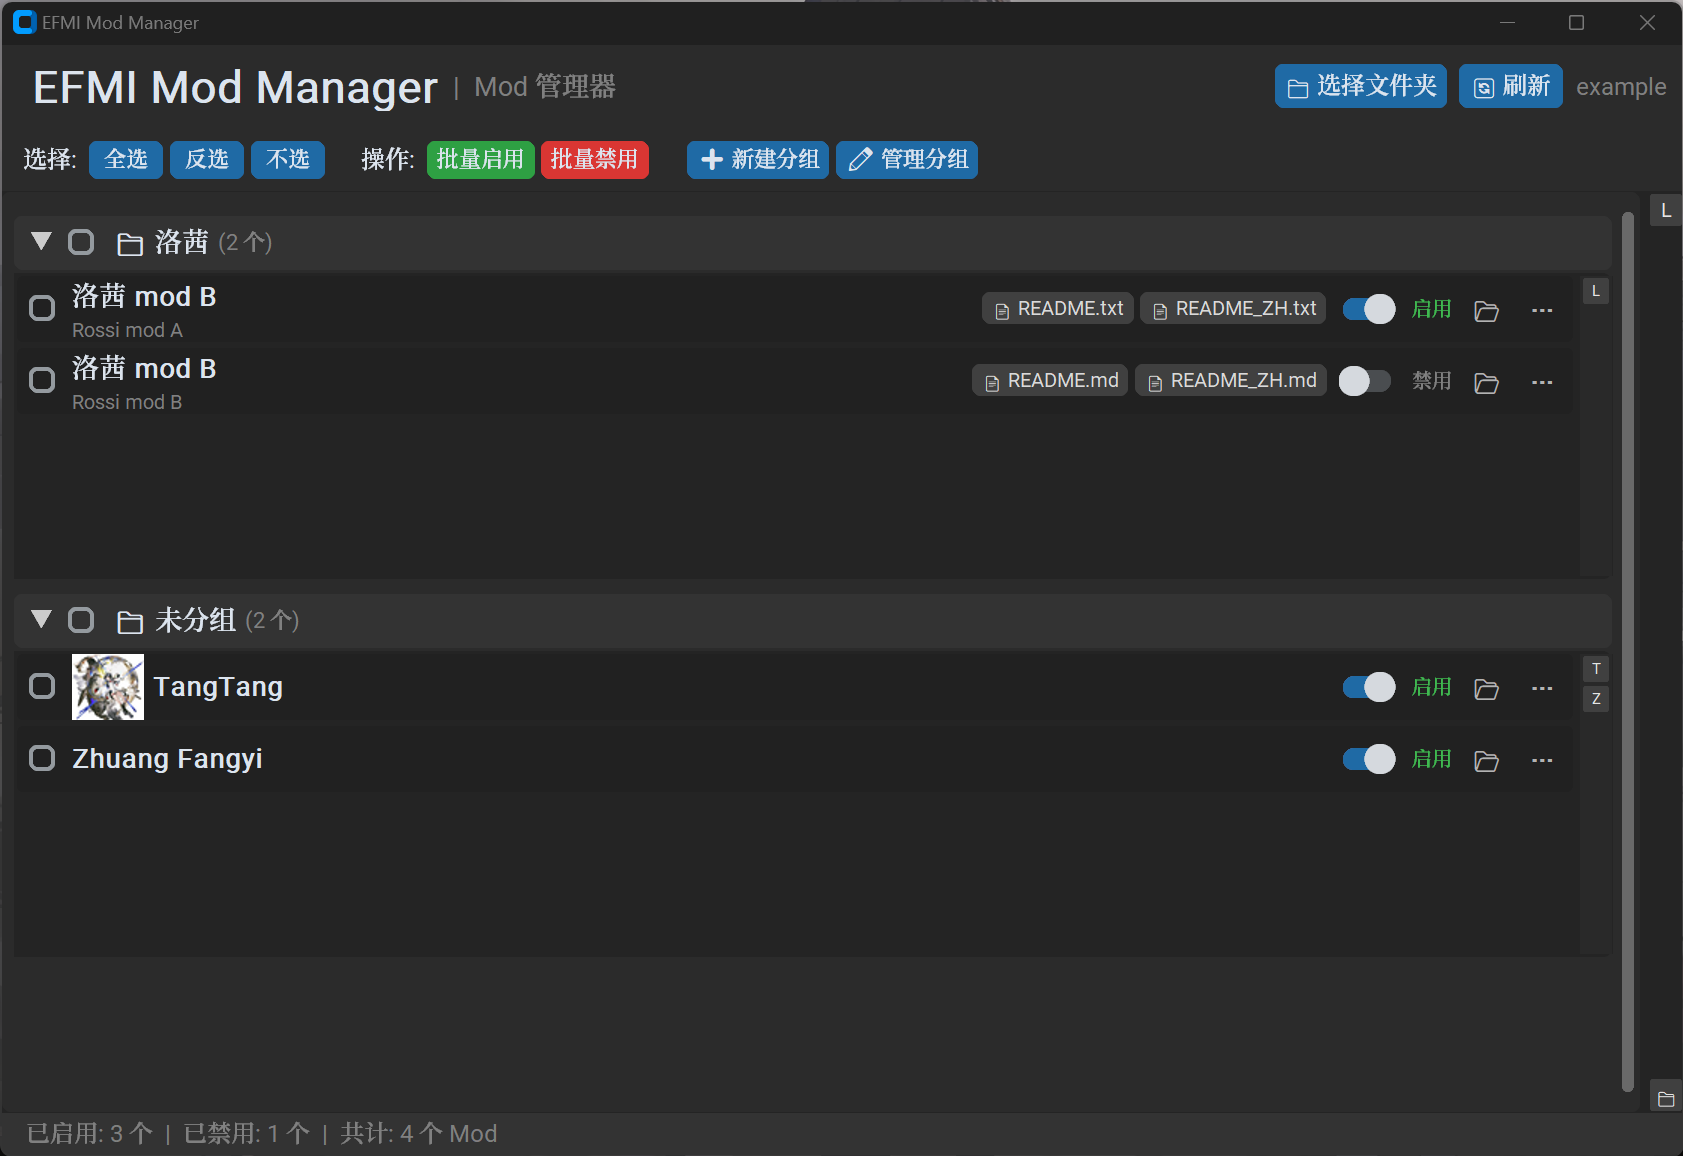
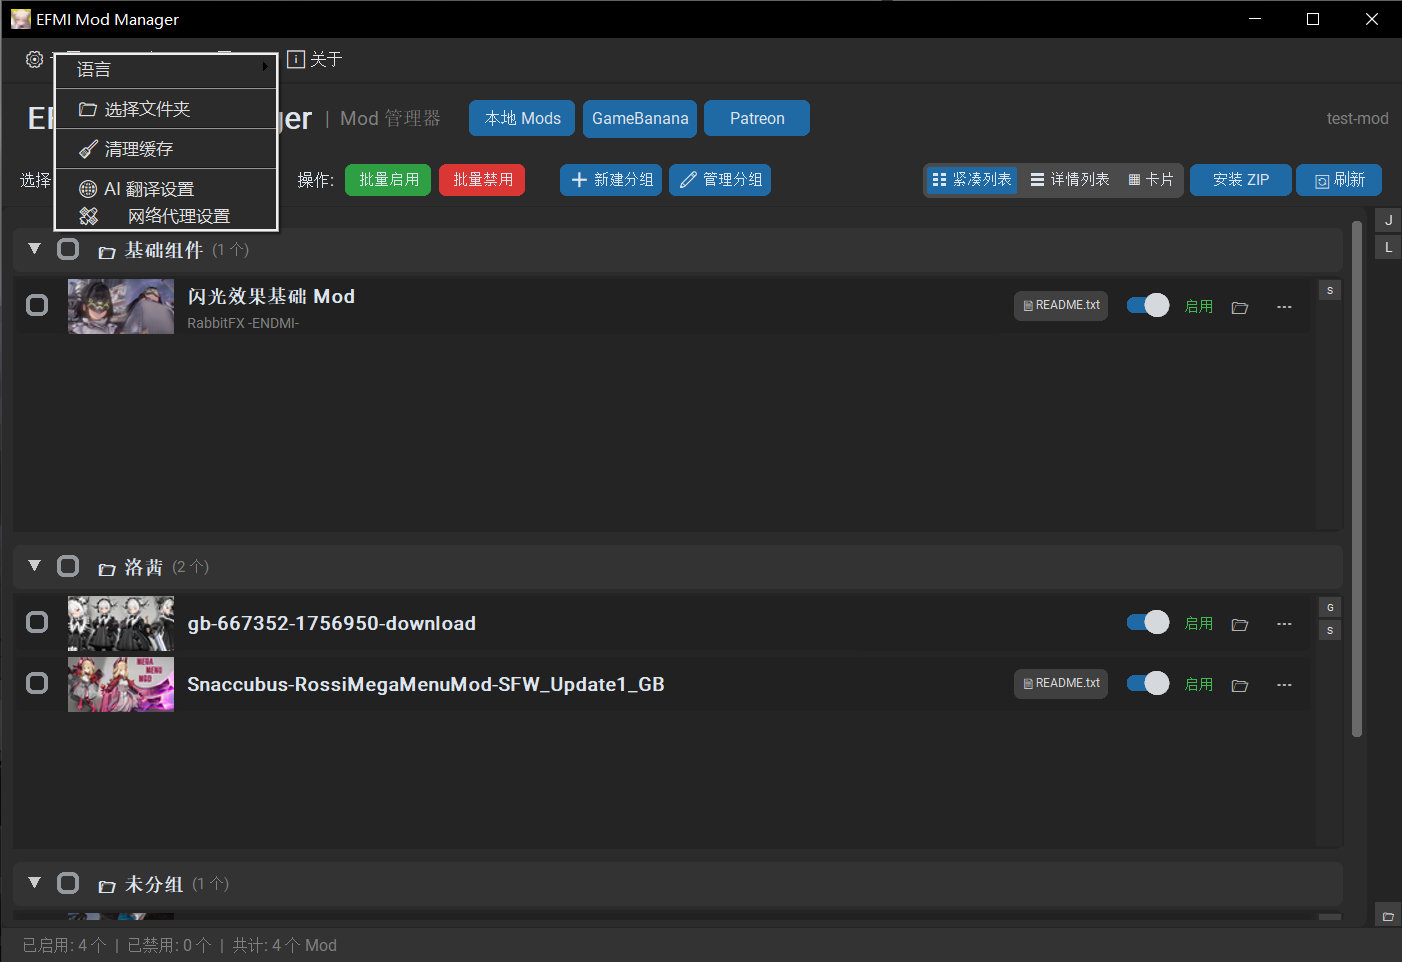
Update Readme

diff --git a/README.assets/more_screenshot.md b/README.assets/more_screenshot.md
@@ -1,0 +1,9 @@
+![](screenshot-1.png)
+![](screenshot-2.png)
+![](screenshot-3.png)
+![](https://raw.githubusercontent.com/gunfub/EFMI_Mod_Manager/main/README.assets/screenshot-4.png)
+![](https://raw.githubusercontent.com/gunfub/EFMI_Mod_Manager/main/README.assets/screenshot-5.png)
+![](https://raw.githubusercontent.com/gunfub/EFMI_Mod_Manager/main/README.assets/screenshot-6.png)
+![](https://raw.githubusercontent.com/gunfub/EFMI_Mod_Manager/main/README.assets/screenshot-7.png)
+![](https://raw.githubusercontent.com/gunfub/EFMI_Mod_Manager/main/README.assets/screenshot-8.png)
+![](https://raw.githubusercontent.com/gunfub/EFMI_Mod_Manager/main/README.assets/screenshot-9.png)

diff --git a/README_EN.md b/README_EN.md
@@ -1,5 +1,7 @@
 # EFMI Mod Manager
 
+<div align="center"><img src="./README.assets/酸橙色的纪念.png" height="200" /></div>
+
 **English** | [中文](README.md)
 
 A `customtkinter`-based Mod manager that enables/disables Mods by moving folders. Primarily supports Windows, with Linux and macOS compatibility.
@@ -39,6 +41,8 @@ A `customtkinter`-based Mod manager that enables/disables Mods by moving folders
 ![](./README.assets/screenshot-2.png)
 
 ![](./README.assets/screenshot-3.png)
+
+[More Screenshots](./README.assets/more_screenshot.md)
 
 ## Directory Structure Requirements
 

diff --git a/README.md b/README.md
@@ -1,5 +1,7 @@
 # EFMI Mod Manager
 
+<div align="center"><img src="./README.assets/酸橙色的纪念.png" height="200" /></div>
+
 [English](README_EN.md) | **中文**
 
 基于 `customtkinter` 的 Mod 管理器，通过移动文件夹的方式来启用/禁用 Mod。主支持 Windows，兼容 Linux 与 macOS。
@@ -39,6 +41,8 @@
 ![](./README.assets/screenshot-2.png)
 
 ![](./README.assets/screenshot-3.png)
+
+[更多截图](./README.assets/more_screenshot.md)
 
 ## 目录结构要求
 
